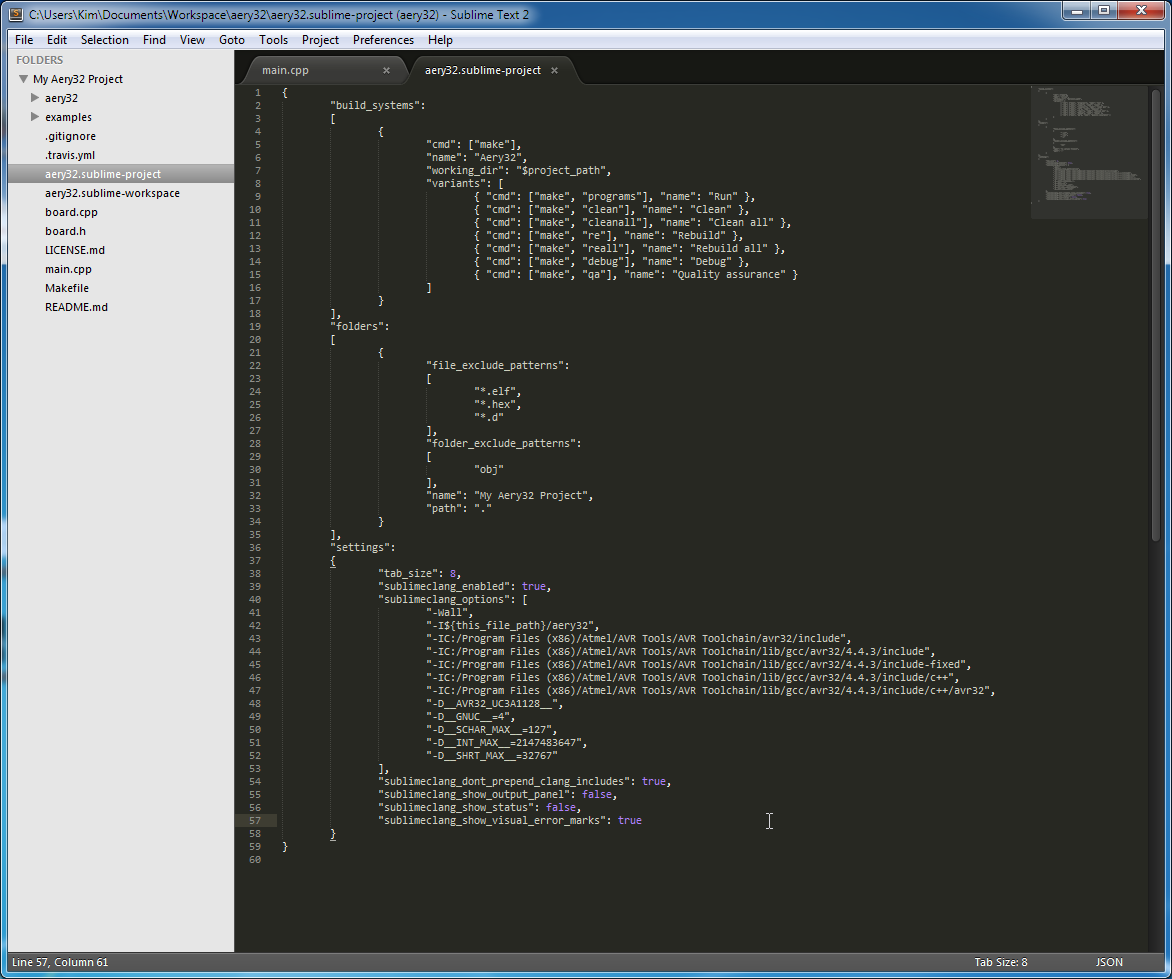
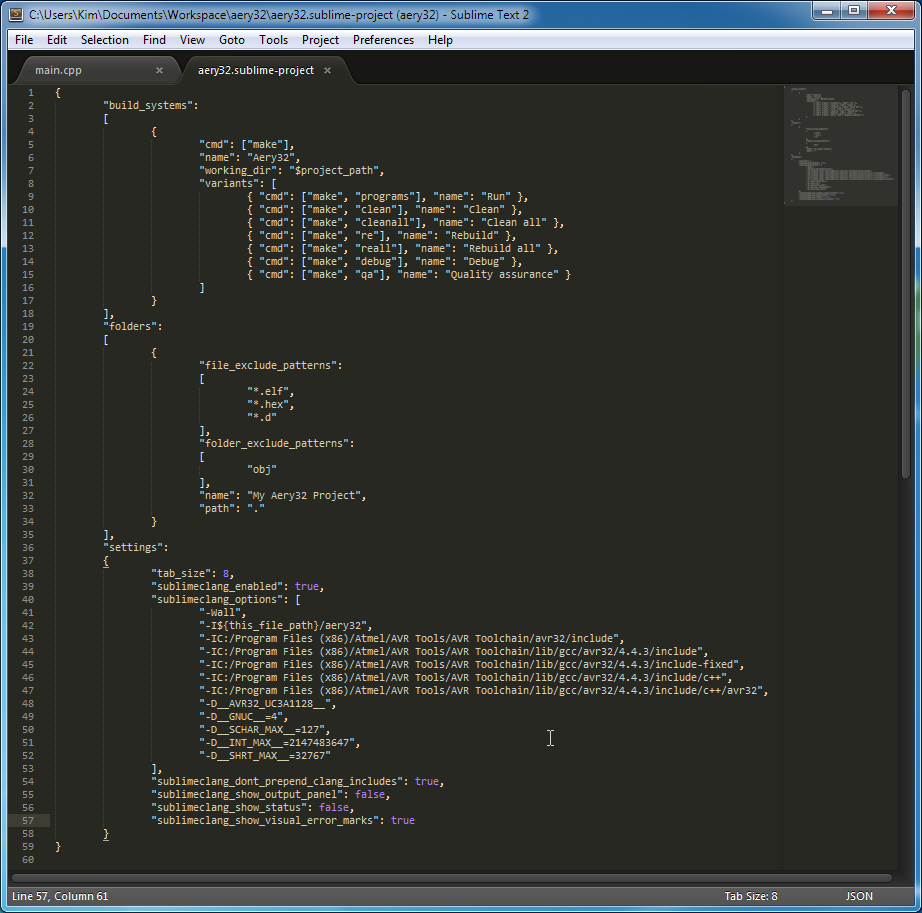
Edit image

diff --git a/source/use_with_st2.rst b/source/use_with_st2.rst
@@ -4,14 +4,12 @@ Sublime Text 2
 Aery32 Framework comes with the default Sublime Text 2 project file which you can use straight away. The quickest way to start the Aery32 project is to browse to the project directory and open ``aery32.sublime-project`` file using the right click and then select *Open with Sublime Text 2*.
 
 .. image:: ../images/st2_open_project_file.png
-    :width: 8 cm
     :target: _images/st2_open_project_file.png
     :alt: Open ST2 project file with right click
 
 After then change the default build system to *Aery32* from *Tools / Build System*.
 
 .. image:: ../images/st2_select_build_system.png
-    :width: 8 cm
     :target: _images/st2_select_build_system.png
     :alt: Change ST2 build system to Aery32
 
@@ -31,7 +29,6 @@ Autocompletion with SublimeClang
 `SublimeClang <https://github.com/quarnster/SublimeClang>`_ provides a neat autocompletion for the Aery32 project. With this plugin you don't have to remember all the functions completely. Just write the beginning of the function, for example, *gpio_t* and the plugin shows you a list of functions.
 
 .. image:: ../images/st2_autocompletion.png
-    :width: 8 cm
     :target: _images/st2_autocompletion.png
     :alt: Example of ST2 autocompletion with SublimeClang
 
@@ -60,6 +57,5 @@ So first install SublimeClang as instructed in its README. Then open ``aery32.su
 	"sublimeclang_show_visual_error_marks": true
 
 .. image:: ../images/st2_sublimeclang_settings_for_avr32.png
-    :width: 8 cm
     :target: _images/st2_sublimeclang_settings_for_avr32.png
     :alt: ST2 SublimeClang settings for AVR32 Toolchain
